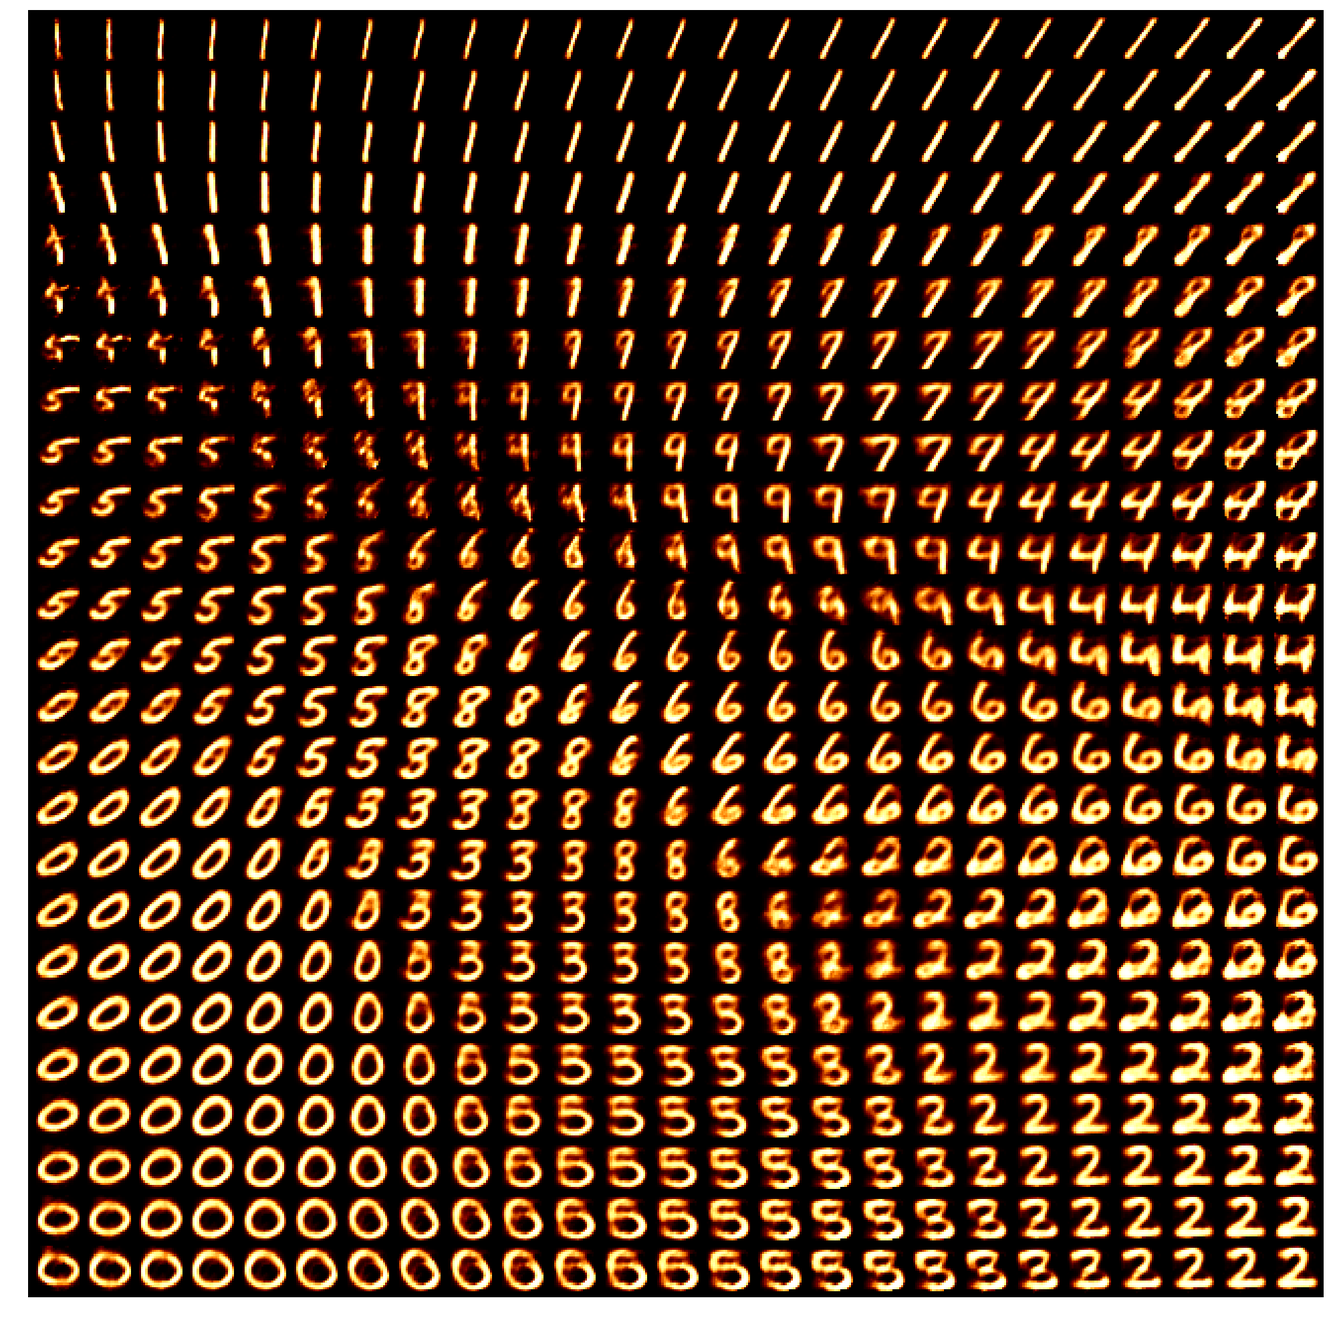
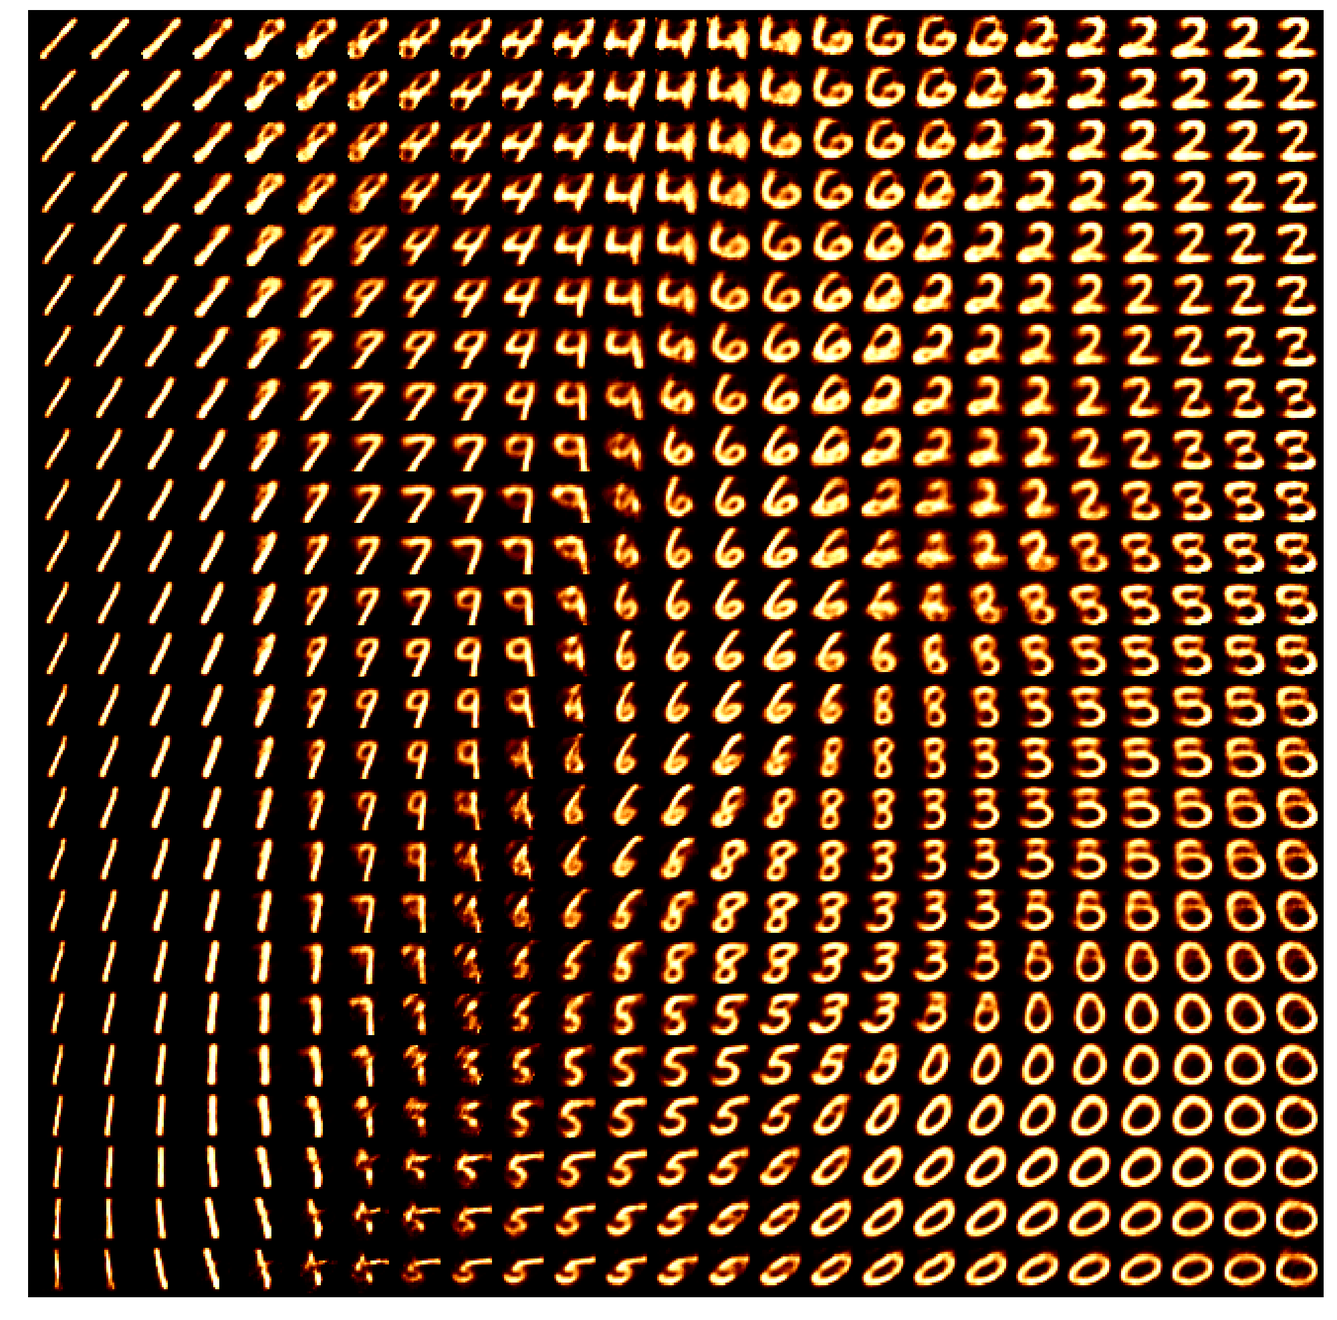
Finishing off initial total draft of VAE intro post

diff --git a/_posts/2025-09-08-VAE.md b/_posts/2025-09-08-VAE.md
@@ -1,5 +1,5 @@
 ---
-title: 'Data Compression and variational inference with Variational Autoencoders'
+title: 'Data Compression and generation with Variational Autoencoders'
 date: 2025-09-08
 permalink: /posts/2025/08/2025-09-08-VAEs/
 tags:
@@ -12,7 +12,7 @@ header-includes:
 ---
 
 
-In this post, I’ll give an introduction to variational autoencoders, with some basic machine learning applications and finally there application in variational inference. ***UNDER CONSTRUCTION***
+In this post, I’ll give an introduction to variational autoencoders, with some machine learning examples. ***UNDER CONSTRUCTION***
 
 
 ## Resources
@@ -26,14 +26,15 @@ As usual, here are some of the resources I’m using as references for this post
     - Found this after I started making this blog post, it's basically exactly what I wanted to do theory-wise and more. I'm going to focus a little more on implementation but otherwise I'd recommend going over there if you want extensions to the theory.
 - [GANs, AEs, and VAEs](https://andycasey.github.io/teaching/phs5000/16/) - [Andy Casey](https://andycasey.github.io)
 - [Understanding Variational Autoencoders (VAEs) \| Deep Learning](https://youtu.be/HBYQvKlaE0A) - [DeepBean](https://www.youtube.com/@deepbean)
-
+- [Deriving the KL divergence loss in variational autoencoders](https://kvfrans.com/deriving-the-kl/) - [Kevin Frans](https://kvfrans.com/author/kevin-frans/)
+- [Learning Structured Output Representation using Deep Conditional Generative Models](https://proceedings.neurips.cc/paper/2015/file/8d55a249e6baa5c06772297520da2051-Paper.pdf)
+- [Conditional Variational Autoencoder for Learned Image](https://arxiv.org/pdf/2110.11681)
 
 ## Table of Contents
 
 - [Motivation/Traditional Autoencoders](#motivationtraditional-autoencoders)
 - [Core Idea](#core-idea)
 - [Construction of the Loss](#construction-of-the-loss)
-- [VI Example Application: Black Box VI](#vae-black-box-vi)
 - [Conclusion](#conclusion)
 
 ---
@@ -175,7 +176,7 @@ We can train the autoencoder above with $$2$$ the number of latent dimensions eq
 
 <p></p>
 
-You may be wondering why the post isn't just on autoencoders as this doesn't look too bar. Well the issue is more obvious when we investigate the latent space of the model. First let's see where images in the MNIST dataset land in the latent space (which remember is 2D so we can plot it like this).
+You may be wondering why the post isn't just on autoencoders as this doesn't look too bad? Well the issue is more obvious when we investigate the latent space of the model. First let's see where images in the MNIST dataset land in the latent space (which remember is 2D so we can plot it like this).
 
 
 <p>
@@ -216,7 +217,7 @@ This is effectively looking at how the encoder is understanding the information 
 We can now kind of see what's happening, the autoencoder isn't mapping numbers that are similarly shaped together. It seems to merely be assigning the numbers areas, and then just phasing between the two with the stages of the phase not corresponding to anything interpretable. e.g. Looking at how the 0 phases into the 5, the 'inbetween' doesn't look like anything that a human would write. You can also clearly see how the '5's show up in two entirely separate areas where if you go between them you get a '3'?? Because of this arbitrary assignment the spaces in between numbers that actually populate the space are not interpretable, we can't say that they will look close to numbers close in the parameter space, it might just be some gobbledygook.
 
 
-We need some way to essentially make the space more structured. And we can do this by instead of interpreting numbers going to points, mapping them to distributions and saying that they are a draw of said distribution. Implicitly, this also makes the space continuous and allows us to generate _new_ data as we can sample these distributions to generate new and possibly realistic data. This is essentially a ___Variational Autoencoder___.
+We need some way to essentially make the space more structured. And we can do this by instead of interpreting numbers going to points, mapping them to distributions and saying that they are a draw of said distribution. Implicitly, this also makes the space continuous and allows us to generate "_new_" data as we can sample these distributions to generate new and possibly realistic data. This is essentially a ___Variational Autoencoder___.
 
 
 
@@ -232,31 +233,253 @@ A [Variational Autoencoder](https://en.wikipedia.org/wiki/Variational_autoencode
         src="/files/BlogPostData/2025-09-vaes/VAE_diagram.png" 
         alt="Diagram showing structure of variational autoencoder that maps inputs to distribution parameters"
         title="Diagram showing structure of variational autoencoder that maps inputs to distribution parameters"
-        style="width: 80%; height: auto; border-radius: 32px;">
+        style="width: 100%; height: auto; border-radius: 32px;">
     </div>
 </p>
 
 Infuriatingly, for the decoder, it is common to fix the covariance values as it makes the training more difficult. And since the decoder distribution is often a normal the loss eventually turns into the mean squared error, and then they call it the reconstruction loss. So the decoder loses it's probabilistic interpretation and then some PhD student spends a couple hours trying to figure out why papers still refer to it as a probability distribution only to learn this fun fact at the end... anyways.
+
+And before I move on, just another clarification about the diagram above. 
+
+You'll note that there is an extra input $$\vec{\varepsilon}$$ leading into $$\vec{z}_i$$. Because we are describing a probability distribution and not some deterministic transformation a particular $$\vec{z}_i$$ doesn't come out of a particular $$\vec{x}_i$$ but a particular $$q_\phi(\vec{z}\vert\vec{x}_i)$$. 
+
+To get a specific $$\vec{z}_i$$ for a given $$\vec{x}_i$$ we need to sample the given probability distribution $$q_\phi(\vec{z}\vert\vec{x}_i)$$. And because the eventual derivatives (which I'm _just_ about to discuss) would be complicated otherwise, we perform the [reparameterisation trick](https://en.wikipedia.org/wiki/Reparameterization_trick). 
+
+In case of a normal distribution,
+
+$$\vec{z}_i \sim N(\vec{\mu}_i, \textrm{diag}(\sigma_i^2)),$$
+
+you can off-load the stochasticity of the sampling from the distribution itself to some other variable,
+
+$$\vec{\varepsilon} \sim N(\vec{0}, I),$$
+
+and dilate the distribution by the covariance,
+
+$$\vec{\varepsilon} \odot \textrm{diag}(\sigma_i) \sim N(\vec{0}, \textrm{diag}(\sigma_i^2)),$$
+
+
+and shift it so that it matches the wanted distribution,
+
+$$\vec{z}_i = \vec{\mu}_i + \vec{\varepsilon} \odot \textrm{diag}(\sigma_i) \sim N(\vec{\mu}_i, \textrm{diag}(\sigma_i^2)).$$
 
 
 
 # Construction of the loss
 
 
+Disregarding any level of physical interpretability to $$\vec{z}$$ all we care about is how well we can reproduce $$\vec{x}$$, or find the parameters $$\phi^*$$ and $$\theta^*$$ that maximise the probability of our data for the probability distribution,
+
+$$p_{\phi, \theta}(\vec{x}),$$
+
+which can also be expressed as the fully marginalised likelihood (hence why it uses the $$p$$ above),
+
+$$p_{\phi, \theta}(\vec{x}) = \int_z dz \; p_\theta(\vec{x}|\vec{z}) p(\vec{z}).$$
 
 
+(The following is partly reproducing Equations 2.5-2.9 in [1906.02691](https://arxiv.org/abs/1906.02691) partly adding my own spin.)
+
+$$
+\DeclareMathOperator*{\argmax}{argmax}
+\begin{align}
+\phi^*, \theta^*  &= \argmax_{\phi, \theta} \log p_{\theta}(\vec{x}) \\
+\end{align}$$
+
+This is the evidence and a little hard to calculate, additionally, in practice we want to average over the samples from our latent distribution. So we'll average over these samples, which is over $$\vec{z}_i$$ which theoretically isn't doing anything as the evidence doesn't take this as input,
+
+$$
+\DeclareMathOperator*{\argmax}{argmax}
+\begin{align}
+\phi^*, \theta^*  &= \argmax_{\phi, \theta} \log p_{\theta}(\vec{x}) \\
+&= \argmax_{\phi, \theta} \mathbb{E}_{q_\phi(\vec{z}|\vec{x})} \left[ \log p_{\phi, \theta}(\vec{x}) \right]
+\end{align}$$
+
+and then use Bayes' theorem and a little algebraic trickery to split it into some more managable parts,
+
+$$
+\DeclareMathOperator*{\argmax}{argmax}
+\begin{align}
+\phi^*, \theta^*  &= \argmax_{\phi, \theta} \mathbb{E}_{q_\phi(\vec{z}|\vec{x})} \left[ \log p_{\theta}(\vec{x}) \right] \\
+&= \argmax_{\phi, \theta} \mathbb{E}_{q_\phi(\vec{z}|\vec{x})} \left[ \log \left[ \frac{p_{\theta}(\vec{x}, \vec{z})}{p_{\theta}(\vec{z} | \vec{x})} \right] \right] \hspace{6.6em} \textrm{(Bayes' theorem)}\\
+&= \argmax_{\phi, \theta} \mathbb{E}_{q_\phi(\vec{z}|\vec{x})} \left[ \log \left[ \frac{p_{\theta}(\vec{x}, \vec{z})}{q_\phi(\vec{z}|\vec{x})} \frac{q_\phi(\vec{z}|\vec{x})}{p_{\theta}(\vec{z} | \vec{x})}  \right] \right] \hspace{3em} \textrm{(trickery)}\\
+&= \argmax_{\phi, \theta} \left(\mathbb{E}_{q_\phi(\vec{z}|\vec{x})} \left[ \log \left[ \frac{p_{\theta}(\vec{x}, \vec{z})}{q_\phi(\vec{z}|\vec{x})} \right] \right] +  \mathbb{E}_{q_\phi(\vec{z}|\vec{x})} \left[ \log \left[\frac{q_\phi(\vec{z}|\vec{x})}{p_{\theta}(\vec{z} | \vec{x})}  \right] \right]\right).\\
+\end{align}$$
+
+And now we also meaningfully introduced $$q_\phi(\vec{z}\vert\vec{x})$$ that has $$\phi$$ in it! And if you're familiar with variational inference (if here's a quick plug for [my post on that](https://liamcpinchbeck.github.io/posts/2025/05/2025-05-10-variational-inference/)) this may look familiar as the following.
+
+$$
+\DeclareMathOperator*{\argmax}{argmax}
+\begin{align}
+\phi^*, \theta^*  
+&= \argmax_{\phi, \theta} \left(\mathbb{E}_{q_\phi(\vec{z}|\vec{x})} \left[ \log \left[ \frac{p_{\theta}(\vec{x}, \vec{z})}{q_\phi(\vec{z}|\vec{x})} \right] \right] +  \mathbb{E}_{q_\phi(\vec{z}|\vec{x})} \left[ \log \left[\frac{q_\phi(\vec{z}|\vec{x})}{p_{\theta}(\vec{z} | \vec{x})}  \right] \right]\right)\\
+&= \argmax_{\phi, \theta} \left(L_{\text{ELBO}}(q_\phi(\vec{z}|\vec{x})||p_\theta(\vec{x}, \vec{z})) + \textrm{KL}(q_\phi(\vec{z}|\vec{x})||p_\theta(\vec{z}|\vec{x})) \right).
+\end{align}$$
+
+We can then see that,
+
+$$\begin{align}
+L_{\text{ELBO}}(q_\phi(\vec{z}|\vec{x})||p_\theta(\vec{x}, \vec{z})) = \log p_{\theta}(\vec{x}) - \textrm{KL}(q_\phi(\vec{z}|\vec{x})||p_\theta(\vec{z}|\vec{x})),
+\end{align}$$
+
+which indicates that if we maximise the ELBO then we concurrently maximise the evidence and minimise the KL divergence (something akin to the distance between the posteriors that $$q_\phi$$ and indirectly $$p_\theta$$ describe which should be the same thing). We can still split this into a more telligible form.
+
+$$
+\DeclareMathOperator*{\argmin}{argmin}
+\begin{align}
+\phi^*, \theta^*  
+&= \argmin_{\phi, \theta} \left(\mathbb{E}_{q_\phi(\vec{z}|\vec{x})} \left[ \log \left[ \frac{q_\phi(\vec{z}|\vec{x})}{p_{\theta}(\vec{x}, \vec{z})} \right] \right] \right) \\
+&= \argmin_{\phi, \theta} \left(\mathbb{E}_{q_\phi(\vec{z}|\vec{x})} \left[ \log \frac{q_\phi(\vec{z}|\vec{x})}{p(\vec{z})} \right] -\mathbb{E}_{q_\phi(\vec{z}|\vec{x})} \left[\log p_{\theta}(\vec{x}|\vec{z}) \right] \right) \\
+&= \argmin_{\phi, \theta} \left(KL\left(q_\phi(\vec{z}|\vec{x}) || p(\vec{z})\right) -\mathbb{E}_{q_\phi(\vec{z}|\vec{x})} \left[\log p_{\theta}(\vec{x}|\vec{z}) \right] \right). 
+\end{align}$$
+
+Now we can clearly see that in the first term we are trying to minimise the distance between what is our approximate posterior and assumed prior, a kind of regularisation term saying to not go to far away from the prior and do something crazy, and the second term is straight reconstruction accuracy, for the given $$x$$s, we want to maximise the likelihood/how well the sampled likelihood is reproducing the input data.
+
+In the case where the VAE is learning the parameters of a normal distribution instead of calculating the regularisation term numerical, we can do a quick bit of algebra to get it in an algebraic form. With the following,
+
+$$\begin{align}
+q_\phi(\vec{z}|\vec{x}) = \left(2\pi\right)^{-K/2} \det(\Sigma)^{-\frac{1}{2}} \exp\left(-\frac{1}{2} (\vec{z}-\vec{\mu})^T \Sigma^{-1} (\vec{z}-\vec{\mu}) \right),
+\end{align}$$
+
+which because we're assuming that we're modelling a uncorrelated gaussian/the pixels in the MNIST data are independent, the log of this simplifies to,
+
+$$\begin{align}
+\log q_\phi(\vec{z}|\vec{x}) &= \log \left[ \left(2\pi\right)^{-K/2} \left(\prod_j^K \sigma_j^2 \right)^{-\frac{1}{2}} \exp\left(-\frac{1}{2} \sum_j^K(z_j-\mu_j)^2/\sigma_j^2 \right) \right]\\
+&= -\frac{K}{2} \log \left(2\pi\right) + \log \left[ \left(\prod_j^K \sigma_j^2 \right)^{-\frac{1}{2}} \exp\left(-\frac{1}{2} \sum_j^K(z_j-\mu_j)^2/\sigma_j^2 \right) \right]\\
+&=  -  \frac{K}{2} \log \left(2\pi\right)  -   \left(\sum_j^K\log \sigma_j \right)  -  \frac{1}{2} \sum_j^K(z_j-\mu_j)^2/\sigma_j^2.\\
+\end{align}$$
+
+Where $$j$$ is indexing a given _dimension_ of $$\vec{z}$$, not a datapoint. Additionally, assuming that the prior $$p(z)$$ is a uncorrelated standard normal distribution (unit variance) centred at $$\vec{0}$$ we can similarly express it's log as the following,
+
+$$\begin{align}
+\log p(\vec{z}) &= -  \frac{K}{2} \log \left(2\pi\right) -  \frac{1}{2} \sum_j^Kz_j^2.\\
+\end{align}$$
+
+And then combining the two within the KL divergence,
+
+$$\begin{align}
+KL\left(q_\phi(\vec{z}|\vec{x}) || p(\vec{z})\right) 
+&= \mathbb{E}_{z\sim q_\phi(\vec{z}|\vec{x})} \left[ \log \frac{q_\phi(\vec{z}|\vec{x})}{p(\vec{z})} \right]\\
+&= \mathbb{E}_{z\sim q_\phi(\vec{z}|\vec{x})} \left[ \log q_\phi(\vec{z}|\vec{x})- \log p(\vec{z}) \right]\\
+&= \mathbb{E}_{z\sim q_\phi(\vec{z}|\vec{x})} \left[ -  \frac{K}{2} \log \left(2\pi\right)  -   \left(\sum_j^K \log \sigma_j \right)  -  \frac{1}{2} \sum_j^K (z_j-\mu_j)^2/\sigma_j^2 + \frac{K}{2} \log \left(2\pi\right) +  \frac{1}{2} \sum_j^K z_j^2 \right]\\
+&= \mathbb{E}_{z\sim q_\phi(\vec{z}|\vec{x})} \left[ -   \left(\sum_j^K\log \sigma_j \right)  -  \frac{1}{2} \sum_j^K (z_j-\mu_j)^2/\sigma_j^2 +  \frac{1}{2} \sum_j^K z_j^2 \right]\\
+&= - \mathbb{E}_{z\sim q_\phi(\vec{z}|\vec{x})} \left[\sum_j^K\log \sigma_j \right] -  \frac{1}{2} \sum_j^K \mathbb{E}_{z\sim q_\phi(\vec{z}|\vec{x})} \left[(z_j-\mu_j)^2/\sigma_j^2\right] + \frac{1}{2} \sum_j^K \mathbb{E}_{z\sim q_\phi(\vec{z}|\vec{x})} \left[ z_j^2 \right]\\
+&= - \sum_j^K \log \sigma_j - \frac{1}{2} \sum_j^K \mathbb{E}_{z\sim q_\phi(\vec{z}|\vec{x})} \left[ (z_j-\mu_j)^2\right]/\sigma_j^2 + \frac{1}{2} \sum_j^K \mathbb{E}_{z\sim q_\phi(\vec{z}|\vec{x})} \left[ z_j^2 \right].\\
+\end{align}$$
+
+Then we're going to be a little sneaky and not that these samples are explicitly about the "true" posterior, but our approximate distribution. So the mean and variance of the samples that the averages are taken with respect to are the average and mean parameters of our approximate distribution. This allows us to simplify the two averages as the following.
+
+$$\begin{align}
+KL\left(q_\phi(\vec{z}|\vec{x}) || p(\vec{z})\right) 
+&= - \frac{1}{2} \sum_j^K \log \sigma_j^2 + \mathbb{E}_{z\sim q_\phi(\vec{z}|\vec{x})} \left[ (z_j-\mu_j)^2\right]/\sigma_j^2 - \mathbb{E}_{z\sim q_\phi(\vec{z}|\vec{x})} \left[ z_j^2 \right] \\
+&= - \frac{1}{2} \sum_j^K \log \sigma_j^2 + \left[ \sigma_j^2/\sigma_j^2\right] - \left[\sigma_j^2 + \mu_j^2\right] \\
+&= - \frac{1}{2} \sum_j^K  \left [ \log \sigma_j^2 + 1 - \sigma_j^2 - \mu_j^2 \right] \\
+\end{align}$$
+
+So that sorts out our KL divergence, but we still need to calculate our reconstruction loss. Thankfully we already contructed everything with the reparmeterisation trick so we can perform backwards propagation, but for any given input we only sample $$\vec{z}$$ once (let's denote this $$\vec{z}'$$) so we can't properly perform Monte Carlo integration / numerically calculate the average. Well it actually practically turns out fine I believe in part because this training is done over multiple iterations and so you sample a range of random samples $$\vec{\varepsilon}$$ over the course of training and the final result is relatively stable. I think of it adding a little extra stochasticity to the gradient descent (whether it is something like ADAM or already SGD).
+
+So, the TLDR is that our loss now looks like the following,
+
+$$\begin{align}
+L_{\text{ELBO}}(q_\phi(\vec{z}|\vec{x})||p_\theta(\vec{x}, \vec{z}))
+&= KL(q_\phi(\vec{z}|\vec{x})||p_\theta(\vec{z})) - \mathbb{E}_{q_\phi(\vec{z}|\vec{x})}(\log p_\theta(\vec{x} | \vec{z})) \\
+&= - \frac{1}{2} \sum_j^K  \left [ \log \sigma_j^2 + 1 - \sigma_j^2 - \mu_j^2 \right] - \log p_\theta(\vec{x} | \vec{z}'). \\
+\end{align}$$
+
+And then as stated above, for numerical stability issues the covariance/standard deviations $$\sigma_n^{\{p\}}$$ of $$p_\theta$$ are often fixed to 1 which simplifies this further (adding superscripts to now denote the different distributions the means and standard deviations come from) while throwing away the constants
 
 
-# VAE Black Box VI
+$$\begin{align}
+L_{\text{ELBO}}(q_\phi(\vec{z}|\vec{x})||p_\theta(\vec{x}, \vec{z}))
+= - \frac{1}{2} \sum_j^K  &\left [ \log \left(\left(\sigma_j^{\{q\}}\right)^2\right) + 1 - \left(\sigma_j^{\{q\}}\right)^2 - \left(\mu_j^{\{q\}}\right)^2 \right] \\
+    &+ \frac{D}{2} \log \left(2\pi\right) + \frac{1}{2} \sum_n^D \left(x_n-\mu^{\{p\}}_n\right)^2 \\
+\cong - \frac{1}{2} \sum_j^K  &\left [ \log \left(\left(\sigma_j^{\{q\}}\right)^2\right)  - \left(\sigma_j^{\{q\}}\right)^2 - \left(\mu_j^{\{q\}}\right)^2 \right]+ \frac{1}{2} \sum_n^D \left(x_n-\mu^{\{p\}}_n\right)^2.\\
+\end{align}$$
 
 
+# MNIST with VAE
+
+Let's see how the above performs on the same MNIST data we had before. Using the same kind of diagnostic figures we see.
+
+First we'll look at how the training data maps into the latent space of the VAE.
 
 
+<p>
+    <div style="text-align: center;">
+    <img 
+        src="/files/BlogPostData/2025-09-vaes/VAE_MNIST_output_latent_space.png" 
+        alt="VAE latent space of images taken from the MNIST dataset comprising of handwritten numbers"
+        title="VAE latent space of images taken from the MNIST dataset comprising of handwritten numbers"
+        style="width: 70%; height: auto; border-radius: 32px;">
+    <img 
+        src="/files/BlogPostData/2025-09-vaes/VAE_MNIST_output_latent_space_by_number.png" 
+        alt="figures showing how specific numbers in the MNIST dataset map into the VAE's latent space"
+        title="figures showing how specific numbers in the MNIST dataset map into the VAE's latent space"
+        style="width: 100%; height: auto; border-radius: 32px;">
+    </div>
+</p>
+
+There's definitely more defined structure there with more similarly shaped numbers put close to each other and less areas where numbers are mapped to that are distinct to the others. We want a continuous probability of grouping where the probability of something that _is_ a 0 should feasibly have a reasonable chance of being a 9. 
+
+Looking at the latent space directly we can then see the following.
+
+<p>
+    <div style="text-align: center;">
+    <img 
+        src="/files/BlogPostData/2025-09-vaes/VAE_MNIST_latent_space.png" 
+        alt="VAE latent space of MNIST images mapped into the data space comprising of handwritten numbers"
+        title="VAE latent space of MNIST images mapped into the data space comprising of handwritten numbers"
+        style="width: 80%; height: auto; border-radius: 8px;">
+    </div>
+</p>
+
+On the surface this seems to have a similar quality to the autoencoder version but notice that the transitions between numbers makes more sense more often here like the 3/5/8 area on the bottom right or the 0->9->7 on the top.
+
+Another benefit that I couldn't really show was that the VAE results it took a lot less hyperparameter tuning. I chose some simple neural networks and fiddled with the learning rate a little and then got the results above. With the relevant autoencoder results, I had to trial and error batch sizes, learning rates, number of network layers, number of network nodes and probably fought against my own point because the autoencoder results on the surface don't look to bad.
+
+Another thing that isn't necessarily working in my favour is that we chose a normal distribution for the likelihood distribution/decoder. The data here is ranging from 0 to 1 so it might make more sense to choose some constrained distribution instead such as a Beta or Binomial distribution. In the case of the binomial distribution the reproduction loss becomes a binary cross entropy but is otherwise much the same. (and we simultaneously get around some inherent numerical instability issues involving the use of the MSE).
+
+Using that we get the following.
+
+
+<p>
+    <div style="text-align: center;">
+    <img 
+        src="/files/BlogPostData/2025-09-vaes/VAE_BCE_MNIST_output_latent_space.png" 
+        alt="VAE with BCE loss latent space of images taken from the MNIST dataset comprising of handwritten numbers"
+        title="VAE with BCE loss latent space of images taken from the MNIST dataset comprising of handwritten numbers"
+        style="width: 70%; height: auto; border-radius: 32px;">
+    <img 
+        src="/files/BlogPostData/2025-09-vaes/VAE_BCE_MNIST_output_latent_space_by_number.png" 
+        alt="figures showing how specific numbers in the MNIST dataset map into the VAE with BCE loss's latent space"
+        title="figures showing how specific numbers in the MNIST dataset map into the VAE with BCE loss's latent space"
+        style="width: 100%; height: auto; border-radius: 32px;">
+    </div>
+</p>
+
+And.
+
+<p>
+    <div style="text-align: center;">
+    <img 
+        src="/files/BlogPostData/2025-09-vaes/VAE_BCE_MNIST_latent_space.png" 
+        alt="VAE with BCE loss latent space of MNIST images mapped into the data space comprising of handwritten numbers"
+        title="VAE with BCE loss latent space of MNIST images mapped into the data space comprising of handwritten numbers"
+        style="width: 80%; height: auto; border-radius: 8px;">
+    </div>
+</p>
+
+You can see that we get less of the background colour than we do with the normal distribution likelihood and the numbers themselves are also clearer.
 
 
 
 # Conclusion
 
+Variational autoencoders as I've shown above are basically old ideas now (see [Lilian Wang's post](https://lilianweng.github.io/posts/2018-08-12-vae/) for _some_ of the stuff they were doing it just in 2019) but are foundational to how many people thing of data encoding and many modern architectures that I've seen incorporate some variant of a VAE precisely for data reduction. For example neural posterior estimation using normalising flows still often use some form of encoder structure for data embeddings where they create a lower dimensional summary of the data to feed into the normalising flow transformations (see [my post on it]() if you wanna learn more). So I hope you had a nice time learning about VAE's and if you have any comments or suggestions please send them to [myfname.mylname]@monash.edu.
+
+
+
+## Black Box VI with CVAE
+
+I originally also wanted to show how one could then perform variational inference or SBI with [conditional variational autoencoders](https://proceedings.neurips.cc/paper/2015/file/8d55a249e6baa5c06772297520da2051-Paper.pdf) (or [here](https://arxiv.org/pdf/2110.11681) for another ref) but had already spent too much time on the above. May revisit later on so stay tuned.
 
 
 
